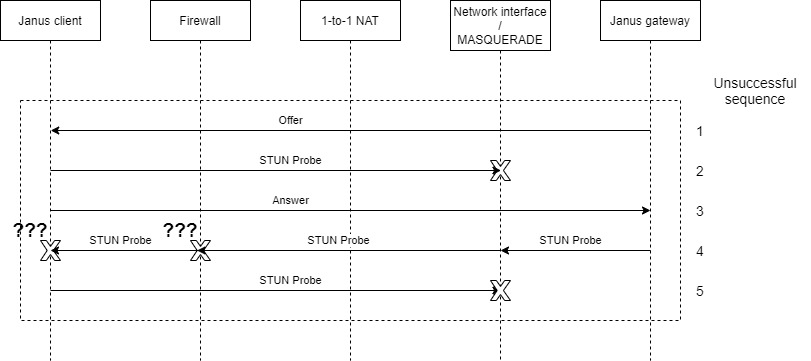
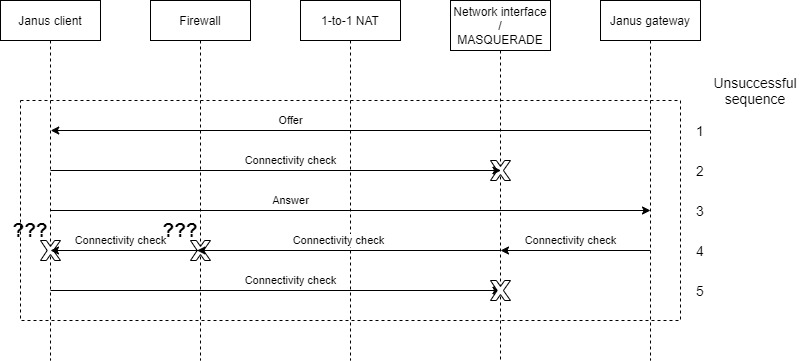
Documentation update

diff --git a/README.md b/README.md
@@ -476,72 +476,85 @@ _nginx.httpsPort_ | The HTTPS port to expose (e.g. 443)
 Once the deployment is running the Janus HTML samples may be accessed at _https://\<host\>.\<domain\>/_
 
 ## Experimentation and observations
-The figure below shows the network configuraiton when running Janus gateway server in a Docker container configured with the default bridge network. The Docker host is a data center virtual machine 
-accessible through a 1-to-1 NAT firewall. The Janus client is located in a private network that offers a simple/typical firewall. The default Docker bridge configuration provides a private subnet 
-for the containers. The conainers may access the public network thanks to the netfilter MASQUERADE target NAT functionlity applied to any packets leaving the private subnet z. The container is 
-configured to expose the Janus gateway control (e.g. 8089 for Janus API and 7889 for Janus admin) and initially media ports (e.g. 10000-12000). As you will see below one of our conclusions consists 
-in not exposing the media ports. Janus gateway server is configured to run in tricke and full ICE mode.
+The figure below shows the network configuraiton when running Janus Gateway in a Docker container configured with the default bridge network. The Docker host is a data center 
+virtual or physical machine accessible through a 1-to-1 NAT firewall through subnet Y. The Janus client is located in a private "home" subnet X that offers a typical "home" router/firewall. 
+Optionally, the home network may belong to an ISP that provides private subnet W and a NAT enabled firewall. Such ISP configuraiton is frequent with mobile opertors.
+The default Docker bridge configuration provides a private subnet for the containers. The conainers may access the public network thanks to the netfilter MASQUERADE target NAT 
+functionlity applied to any packets leaving the private subnet Z. The container is configured to expose the Janus gateway control (e.g. 8089 for Janus API and 7889 for Janus admin) 
+and initially media ports (e.g. 10000-12000). As you will see below one of our conclusions consists in not exposing the media ports. Janus gateway server is configured to run in tricke and full ICE mode.
+The solution relies on a STUN server that allows to discover the public addresses of the client and the server. In normal circumstances the depicted TURN server should not be required 
+as the ICE protocol with the help of the STUN server allows to establish the end-to-end communication. 
 
 ![Network configuration](doc/network_setup.jpg)
 
+### Issue #1 - Issue caused by Janus Gateway server running in a Docker container using the default *bridge* configuration
 The figure below shows a simplified successfull sequence where the ICE suceeds to establish bidirectional media streams between the client and the gateway.
 1. The offer is issued by the client.
-1. Based on the offer and/or trickled candidates the gateway sends STUN probes that cannot reach the client.
+1. Based on the offer and/or trickled candidates the gateway sends connectivity checks that cannot reach the client.
 1. Eventually the gateway sends an aswer message that allows the client to start sending STUN probles.
-1. Thanks to the gateway earlier STUN probes the client STUN probles reach the server (the firewall port is open).
-1. Thanks to the client STUN probes (the firewall port is open) the gateway STUN probes are reaching the client.
+1. Thanks to the gateway earlier connectivity checks the client STUN probles reach the server (the firewall port is open).
+1. Thanks to the client connectivity checks (the firewall port is open) the gateway connectivity checks are reaching the client.
 
 ![Sucessful sequence](doc/sequence_successful.jpg)
 
 The next figure shows the unsucessful sequence. 
 1. This time the offer is sent by the gateway.
-1. Based on the offer and/or trickled candidates the client sends STUN probes that cannot reach the gateway. These probes are rejected by the MASQUERADE netfilter target because the 1-to-1 NAT
+1. Based on the offer and/or trickled candidates the client sends connectivity checks that cannot reach the gateway. These probes are rejected by the MASQUERADE netfilter target because the 1-to-1 NAT
 firewall is configured to forward any media traffic to the gatway. An ICMP error message is generated for each rejected probe.
 1. The client generates an answer.
-1. Based on the answer and/or trickled candidates the gateway generates STUN probes that for some reason never make it to the client. 
-1. The client STUN probes never make it to the gateway neither.
+1. Based on the answer and/or trickled candidates the gateway generates connectivity checks that for some reason never make it to the client. 
+1. The client connectivity checks never make it to the gateway neither.
 
 ![Failing sequence](doc/sequence_unsucessful.jpg)
 
 Therefore our initial analysis has lead us to the same concusion as presented in [this](https://www.slideshare.net/AlessandroAmirante/janus-docker-friends-or-foe) slide pack 
 by Alessandro Amirante from Meetecho. Now, going a bit more into details the next figure below shows an excerpt of the packet capture at the virtual machine network interface. 
-1. STUN probe sent by the client before the gateway had a chance to open the port. As presented in step 2 on the previous figure above.
+1. connectivity check sent by the client before the gateway had a chance to open the port. As presented in step 2 on the previous figure above.
 1. An ICMP "destination unreachable" error is generated.
 1. The gateway sends a STUN request to a STUN server to retrieve its server reflexive address and port.
 1. The STUN server replies indicating the reflexive port is 20422
-1. The gateway issues STUN probes from port 20422 to the client local addresses (local subnet 192.x.y.z and some VPN 10.x.y.z) which are unreachable because the client is on a private subnet.
-1. The STUN probe destined to the client server reflexive (i.e. "reachable") address and port gets its source port **reassigned** to **1599** (instead of **20422**). 
-This happens because the earlier STUN probe from the client destined to the gateway address and port 20422 has altered the state of the MASQUERADE netfilter target. Please note we were not
+1. The gateway issues connectivity checks from port 20422 to the client local addresses (local subnet 192.x.y.z and some VPN 10.x.y.z) which are unreachable because the client is on a private subnet.
+1. The connectivity check destined to the client server reflexive (i.e. "reachable") address and port gets its source port **reassigned** to **1599** (instead of **20422**). 
+This happens because the earlier connectivity check from the client destined to the gateway address and port 20422 has altered the state of the MASQUERADE netfilter target. Please note we were not
 able to identify the reason for this behavior (e.g. security vunerability protection, standard specification, DOS attack protection etc.).
 
 ![Annotated packet capture](/doc/packet_capture_annotated.jpg)
 
-Therefore the client STUN probes are lost because of the race condition between the gateway opening firewall ports and the client sending STUN probles and because the MASQUERADE netfilter 
+Therefore the client connectivity checks are lost because of the race condition between the gateway opening firewall ports and the client sending STUN probles and because the MASQUERADE netfilter 
 target does not allow a host from the private subnet to send packets to a remote host using the same quintuple (source address, destination address, source port, destination port, protocol) 
 as the one recently rejected from the remote host. On the other hand the server STUN probles are most probably rejected by the client side firewall because its NAT configuraiton is port restricted. 
 
-## Solutions
+### Solutions
 In an attempt to eliminate the root cause and to delay the STUN client probes we have configred the gateway to trickle the candidates, which was unsuficient. Therefore we have also
  added an addional 1s delay in the client (janus.js file) when processing the received trickle candidates from the gateway. While this is not an acceptable solution the problem appeares to be solved.
 1. The gateway sends the offer.
 1. The gateway starts trickling the candidates. But the processing of the received tricked candidates is delayed by 1s at the client.
 1. The client issues an answer.
-1. The gatway sends a STUN probe that does not reach the client because the firewall port is still closed because of the delay.
-1. After the delay has expired the client sends a STUN probe that opens the firewall port and reaches the gatway.
-1. Finally the server resends a STUN proble that this time reaches the client.
+1. The gatway sends a connectivity check that does not reach the client because the firewall port is still closed because of the delay.
+1. After the delay has expired the client sends a connectivity check that opens the firewall port and reaches the gatway.
+1. Finally the server resends a connectivity check that this time reaches the client.
 
 ![Tricked and delayed approach](doc/sequence_trickle_delay.jpg)
 
 The second solution consists in reconfiguring the 1-to-1 NAT firewall to disallow exposing any ports besides 80 (http), 443 (https), 8089 (janus-api) and 7889 (janus-admin). All the other ports
 require the gateway to send an initial "opening" request.
 1. The gateway sends the offer.
-1. Based on the offer and/or tricked candidates the client sends STUN probes to the gatway. All these probes get filtered out by the 1-to-1 NAT and hence don't cause the 
+1. Based on the offer and/or tricked candidates the client sends connectivity checks to the gatway. All these probes get filtered out by the 1-to-1 NAT and hence don't cause the 
 above mentioned issue any more.
 1. The client sends an answer to the gatway.
-1. Based on the answer and/or trickled candidates the gatweay sends STUN probes to the client.
-1. The client resends the STUN probes that this time reach the server.
+1. Based on the answer and/or trickled candidates the gatweay sends connectivity checks to the client.
+1. The client resends the connectivity checks that this time reach the server.
 
 ![1-to-1 NAT firewall configuration](doc/sequence_1_to1_nat.jpg)
+
+### Issue #2 - Issue caused by the presence of the ISP firewall
+In some rare cases, the ISP firewall behaves the same way as the Netfilter MASQUERADE target and in the situation a connectivity check is received from the Janus Gateway server before the 
+Janus client had a chance to issue a connectivity check towards the server the ISP firewall will replace the discovered port nuber with a new one. This issue occurs when the Janus client 
+sends an offer message to the Janus Gateway server along with the candidates before receiving the Janus Gatway server candidates. As a matter of fact this issue is a mirror of the 
+previous issue. 
+
+### Solutions
+To solve this issue we have to delay or prevent the Janus Gatway to issue connectiv
 
 ## Conclusion
 It is possible to use the default Docker bridged network driver but some conditions have to be met by the infrastructure specifically the firwall leading to the Janus gatway server. 
